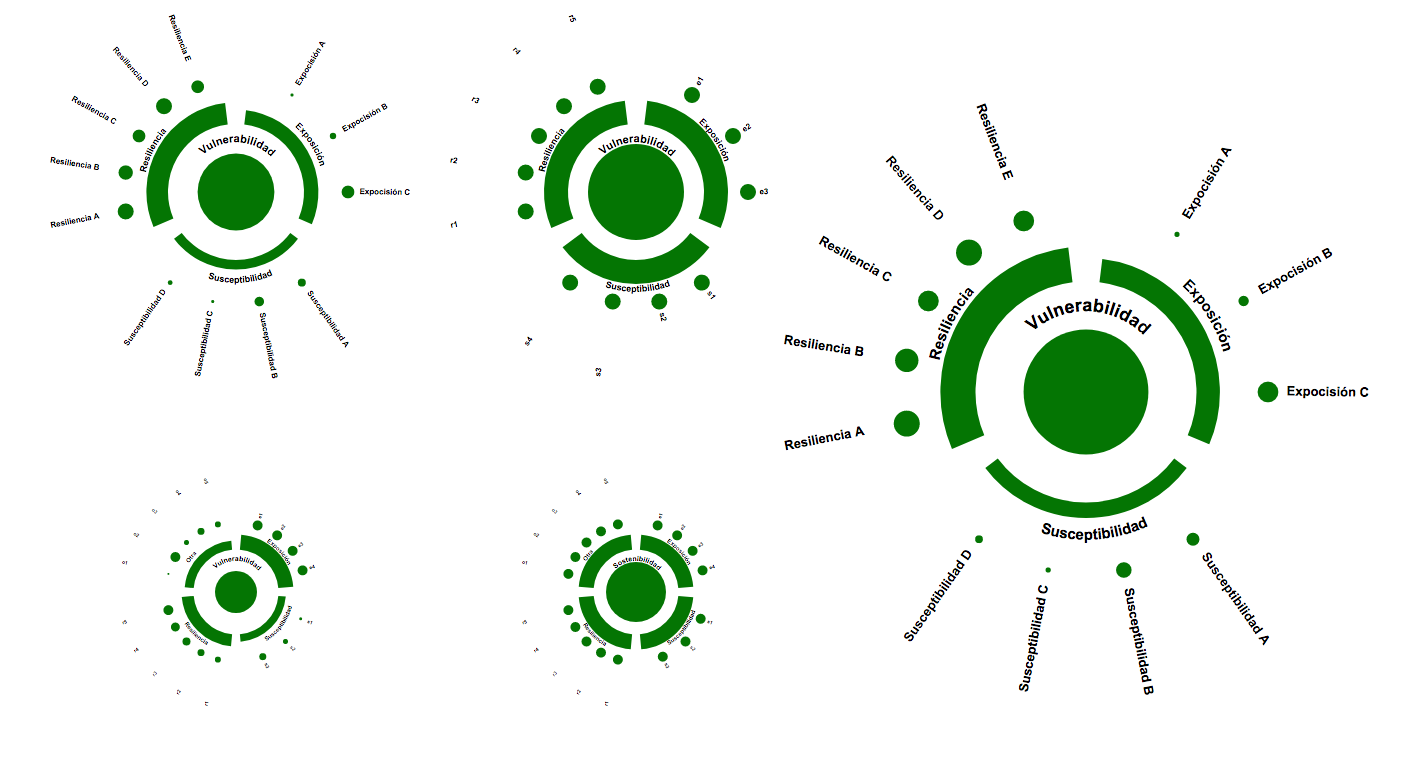
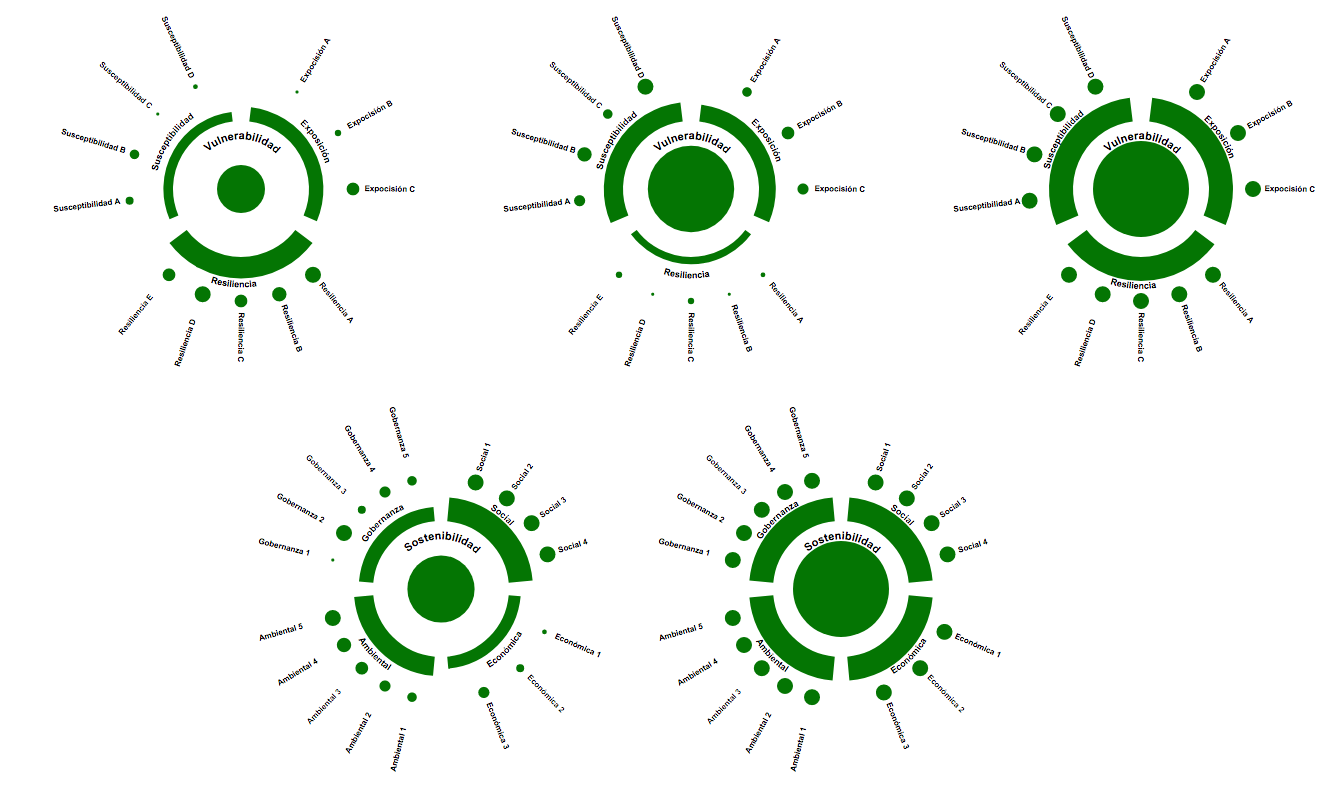
l

diff --git a/test3.py b/test3.py
@@ -167,7 +167,7 @@ def makeGlyph(dwg, current_group,radius,center,data):
 
 
 data = { "total": {"name" : "Vulnerabilidad",
-                 "value": 0.8},
+                 "value": 0.5},
          "categories":[{"name":"Exposición",
                         "value":0.6,
                         "subcategories":[{"name":"Expocisión A","value":0.2},
@@ -175,6 +175,14 @@ data = { "total": {"name" : "Vulnerabilidad",
                                          {"name":"Expocisión C","value":0.8},
                                          #{"name":"e4","value":0.5}
                                          ]},
+                      {"name":"Resiliencia",
+                       "value":0.9,
+                       "subcategories":[{"name":"Resiliencia A","value":1.0},
+                                      {"name":"Resiliencia B","value":0.9},
+                                      {"name":"Resiliencia C","value":0.8},
+                                      {"name":"Resiliencia D","value":1.0},
+                                      {"name":"Resiliencia E","value":0.8}
+                                      ]},
                        {"name":"Susceptibilidad",
                         "value":0.4,
                         "subcategories":[{"name":"Susceptibilidad A","value":0.5},
@@ -182,114 +190,140 @@ data = { "total": {"name" : "Vulnerabilidad",
                                          {"name":"Susceptibilidad C","value":0.2},
                                          {"name":"Susceptibilidad D","value":0.3}
                                          ]},
-                       {"name":"Resiliencia",
-                        "value":0.9,
-                        "subcategories":[{"name":"Resiliencia A","value":1.0},
-                                         {"name":"Resiliencia B","value":0.9},
-                                         {"name":"Resiliencia C","value":0.8},
-                                         {"name":"Resiliencia D","value":1.0},
-                                         {"name":"Resiliencia E","value":0.8}
-                                         ]}
+
+
+                    ]}
+
+data5 = { "total": {"name" : "Vulnerabilidad",
+                 "value": 0.9},
+         "categories":[{"name":"Exposición",
+                        "value":0.7,
+                        "subcategories":[{"name":"Expocisión A","value":0.6},
+                                         {"name":"Expocisión B","value":0.8},
+                                         {"name":"Expocisión C","value":0.7},
+                                         #{"name":"e4","value":1}
+                                         ]},
+                      {"name":"Resiliencia",
+                       "value":0.3,
+                       "subcategories":[{"name":"Resiliencia A","value":0.3},
+                                      {"name":"Resiliencia B","value":0.2},
+                                      {"name":"Resiliencia C","value":0.4},
+                                      {"name":"Resiliencia D","value":0.2},
+                                      {"name":"Resiliencia E","value":0.4}
+                                      ]},
+                       {"name":"Susceptibilidad",
+                        "value":0.8,
+                        "subcategories":[{"name":"Susceptibilidad A","value":0.7},
+                                         {"name":"Susceptibilidad B","value":0.9},
+                                         {"name":"Susceptibilidad C","value":0.6},
+                                         {"name":"Susceptibilidad D","value":1}
+                                         ]},
+
 
                     ]}
 
 data2 = { "total": {"name" : "Vulnerabilidad",
                  "value": 1.0},
          "categories":[{"name":"Exposición",
-                        "value":1.0,
-                        "subcategories":[{"name":"e1","value":1.0},
-                                         {"name":"e2","value":1.0},
-                                         {"name":"e3","value":1.0},
-                                         #{"name":"e4","value":1.0}
+                        "value":1,
+                        "subcategories":[{"name":"Expocisión A","value":1},
+                                         {"name":"Expocisión B","value":1},
+                                         {"name":"Expocisión C","value":1},
+                                         #{"name":"e4","value":1}
                                          ]},
+                      {"name":"Resiliencia",
+                       "value":1,
+                       "subcategories":[{"name":"Resiliencia A","value":1.0},
+                                      {"name":"Resiliencia B","value":1},
+                                      {"name":"Resiliencia C","value":1},
+                                      {"name":"Resiliencia D","value":1},
+                                      {"name":"Resiliencia E","value":1}
+                                      ]},
                        {"name":"Susceptibilidad",
-                        "value":1.0,
-                        "subcategories":[{"name":"s1","value":1.0},
-                                         {"name":"s2","value":1.0},
-                                         {"name":"s3","value":1.0},
-                                         {"name":"s4","value":1.0}
+                        "value":1,
+                        "subcategories":[{"name":"Susceptibilidad A","value":1},
+                                         {"name":"Susceptibilidad B","value":1},
+                                         {"name":"Susceptibilidad C","value":1},
+                                         {"name":"Susceptibilidad D","value":1}
                                          ]},
-                       {"name":"Resiliencia",
-                        "value":1.0,
-                        "subcategories":[{"name":"r1","value":1.0},
-                                         {"name":"r2","value":1.0},
-                                         {"name":"r3","value":1.0},
-                                         {"name":"r4","value":1.0},
-                                         {"name":"r5","value":1.0}
-                                         ]}
+
 
                     ]}
 
 
-data3 = { "total": {"name" : "Vulnerabilidad",
+
+
+data3 = { "total": {"name" : "Sostenibilidad",
                  "value": 0.7},
-         "categories":[{"name":"Exposición",
+         "categories":[{"name":"Social",
                         "value":1.0,
-                        "subcategories":[{"name":"e1","value":1.0},
-                                         {"name":"e2","value":1.0},
-                                         {"name":"e3","value":1.0},
-                                         {"name":"e4","value":1.0}
+                        "subcategories":[{"name":"Social 1","value":1.0},
+                                         {"name":"Social 2","value":1.0},
+                                         {"name":"Social 3","value":1.0},
+                                         {"name":"Social 4","value":1.0}
                                          ]},
-                       {"name":"Susceptibilidad",
+                       {"name":"Económica",
                         "value":0.5,
-                        "subcategories":[{"name":"s1","value":0.3},
-                                         {"name":"s2","value":0.5},
-                                         {"name":"s3","value":0.7},
-                                         #{"name":"s4","value":0.5}
+                        "subcategories":[{"name":"Económica 1","value":0.3},
+                                         {"name":"Económica 2","value":0.5},
+                                         {"name":"Económica 3","value":0.7},
+                                         #{"name":"Económica 4","value":0.5}
                                          ]},
-                       {"name":"Resiliencia",
+                       {"name":"Ambiental",
                         "value":0.8,
-                        "subcategories":[{"name":"r1","value":0.6},
-                                         {"name":"r2","value":0.7},
-                                         {"name":"r3","value":0.8},
-                                         {"name":"r4","value":0.9},
-                                         {"name":"r5","value":1}
+                        "subcategories":[{"name":"Ambiental 1","value":0.6},
+                                         {"name":"Ambiental 2","value":0.7},
+                                         {"name":"Ambiental 3","value":0.8},
+                                         {"name":"Ambiental 4","value":0.9},
+                                         {"name":"Ambiental 5","value":1}
                                          ]},
-                        {"name":"Otra",
+                        {"name":"Gobernanza",
                          "value":0.6,
-                         "subcategories":[{"name":"o1","value":0.2},
-                                          {"name":"o2","value":1},
-                                          {"name":"o3","value":0.5},
-                                          {"name":"o4","value":0.7},
-                                          {"name":"o5","value":0.6}
+                         "subcategories":[{"name":"Gobernanza 1","value":0.2},
+                                          {"name":"Gobernanza 2","value":1},
+                                          {"name":"Gobernanza 3","value":0.5},
+                                          {"name":"Gobernanza 4","value":0.7},
+                                          {"name":"Gobernanza 5","value":0.6}
                                           ]}
 
                     ]}
 
 data4 = { "total": {"name" : "Sostenibilidad",
                  "value": 1},
-         "categories":[{"name":"Exposición",
+         "categories":[{"name":"Social",
                         "value":1.0,
-                        "subcategories":[{"name":"e1","value":1.0},
-                                         {"name":"e2","value":1.0},
-                                         {"name":"e3","value":1.0},
-                                         {"name":"e4","value":1.0}
+                        "subcategories":[{"name":"Social 1","value":1.0},
+                                         {"name":"Social 2","value":1.0},
+                                         {"name":"Social 3","value":1.0},
+                                         {"name":"Social 4","value":1.0}
                                          ]},
-                       {"name":"Susceptibilidad",
+                       {"name":"Económica",
                         "value":1,
-                        "subcategories":[{"name":"s1","value":1},
-                                         {"name":"s2","value":1},
-                                         {"name":"s3","value":1},
-                                         #{"name":"s4","value":1}
+                        "subcategories":[{"name":"Económica 1","value":1},
+                                         {"name":"Económica 2","value":1},
+                                         {"name":"Económica 3","value":1},
+                                         #{"name":"Económica 4","value":1}
                                          ]},
-                       {"name":"Resiliencia",
+                       {"name":"Ambiental",
                         "value":1,
-                        "subcategories":[{"name":"r1","value":1},
-                                         {"name":"r2","value":1},
-                                         {"name":"r3","value":1},
-                                         {"name":"r4","value":1},
-                                         {"name":"r5","value":1}
+                        "subcategories":[{"name":"Ambiental 1","value":1},
+                                         {"name":"Ambiental 2","value":1},
+                                         {"name":"Ambiental 3","value":1},
+                                         {"name":"Ambiental 4","value":1},
+                                         {"name":"Ambiental 5","value":1}
                                          ]},
-                        {"name":"Otra",
+                        {"name":"Gobernanza",
                          "value":1,
-                         "subcategories":[{"name":"o1","value":1},
-                                          {"name":"o2","value":1},
-                                          {"name":"o3","value":1},
-                                          {"name":"o4","value":1},
-                                          {"name":"o5","value":1}
+                         "subcategories":[{"name":"Gobernanza 1","value":1},
+                                          {"name":"Gobernanza 2","value":1},
+                                          {"name":"Gobernanza 3","value":1},
+                                          {"name":"Gobernanza 4","value":1},
+                                          {"name":"Gobernanza 5","value":1}
                                           ]}
 
                     ]}
+
+
 
 
 dwg = svgwrite.Drawing(filename="test3.svg", debug=True, size=(1500,800))
@@ -298,17 +332,17 @@ current_group = dwg.add(dwg.g(id='uno', fill='none', fill_opacity=0 ))
 centro1 = [300,200]
 makeGlyph(dwg, current_group,80,centro1,data)
 
-centro2 = [700,200]
-makeGlyph(dwg, current_group,80,centro2,data2)
+centro2 = [750,200]
+makeGlyph(dwg, current_group,80,centro2,data5)
 
-centro3 = [300,600]
-makeGlyph(dwg, current_group,50,centro3,data3)
+centro3 = [500,600]
+makeGlyph(dwg, current_group,80,centro3,data3)
 
-centro4 = [700,600]
-makeGlyph(dwg, current_group,50,centro4,data4)
+centro4 = [900,600]
+makeGlyph(dwg, current_group,80,centro4,data4)
 
-centro5 = [1150,400]
-makeGlyph(dwg, current_group,130,centro5,data)
+centro5 = [1200,200]
+makeGlyph(dwg, current_group,80,centro5,data2)
 
 
 dwg.save()
